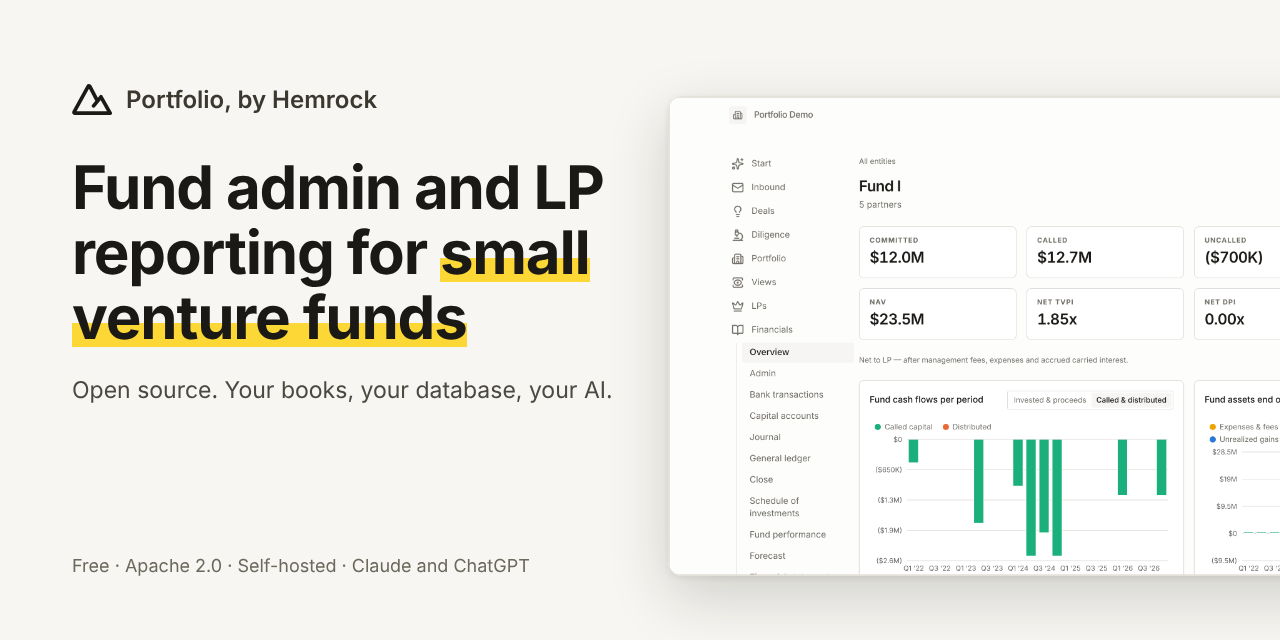
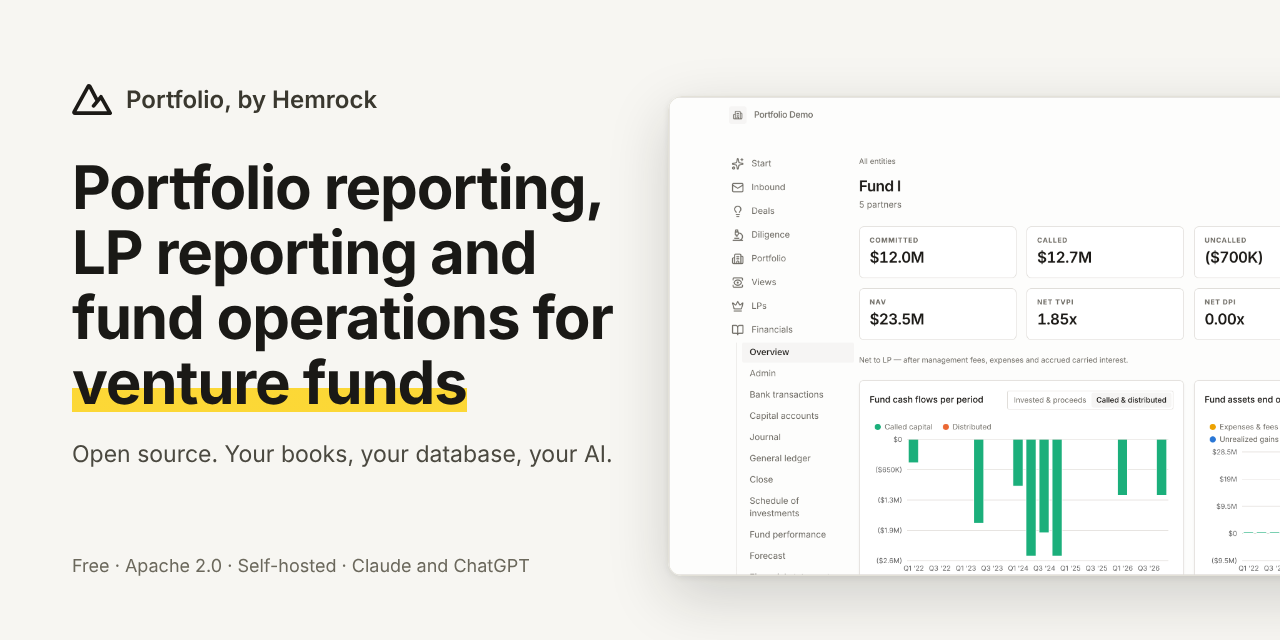
Describe Portfolio by its four areas, not fund size

Changed region(s): [[0.0312, 0.25, 0.5, 0.6562], [0.0625, 0.6875, 0.4688, 0.7188]]

diff --git a/README.md b/README.md
@@ -5,7 +5,7 @@
 <h1 align="center">Portfolio, by Hemrock</h1>
 
 <p align="center">
-  Open-source fund administration, portfolio monitoring and LP reporting for small venture funds.<br>
+  Open-source portfolio reporting, investment workflow, LP reporting and fund operations for venture funds.<br>
   Your books, your database, your AI.
 </p>
 
@@ -178,7 +178,7 @@ See [CONTRIBUTING](./CONTRIBUTING.md) and the issues labeled [good first issue](
 
 ## Sponsor Portfolio
 
-Portfolio is free, and one person builds it. Sponsoring keeps it that way for every small fund that runs it:
+Portfolio is free, and one person builds it. Sponsoring keeps it that way for every fund that runs it:
 
 - **Fund-specific work stays current.** Tax forms, ILPA templates, filing calendars and accounting rules change every year; sponsorship pays for keeping up with them.
 - **Security reviews and dependency updates** for software that holds LP and fund data.

diff --git a/CODE_OF_CONDUCT.md b/CODE_OF_CONDUCT.md
@@ -1,6 +1,6 @@
 # Code of conduct
 
-Portfolio is built for and with people who run small funds, and the people who help them. Everyone
+Portfolio is built for and with people who run venture funds, and the people who help them. Everyone
 taking part here (issues, discussions, pull requests, reviews) is expected to make it a place
 where people want to come back.
 
